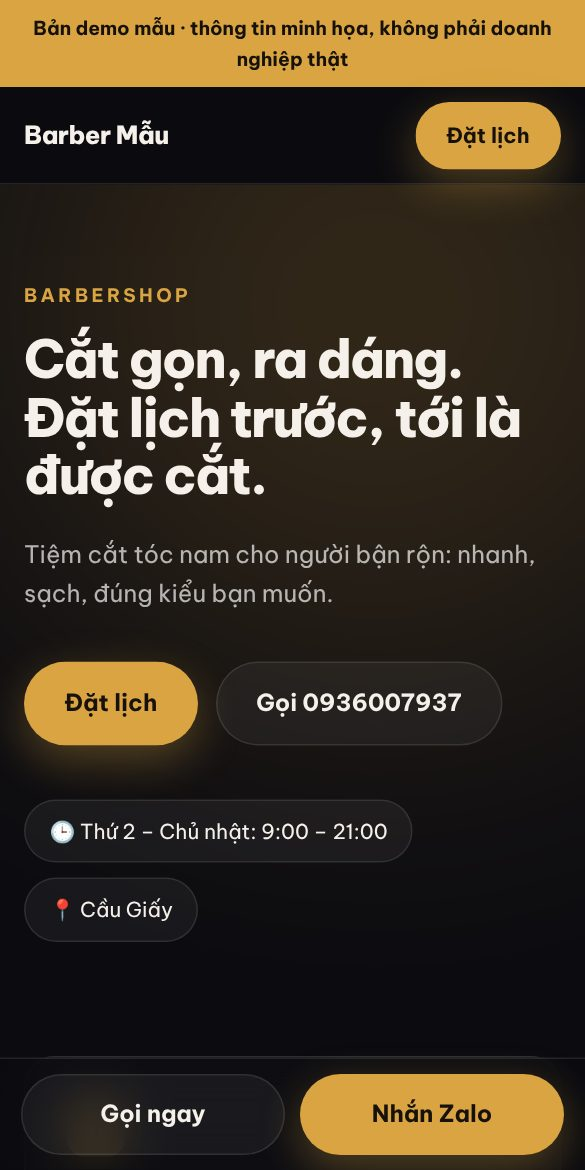
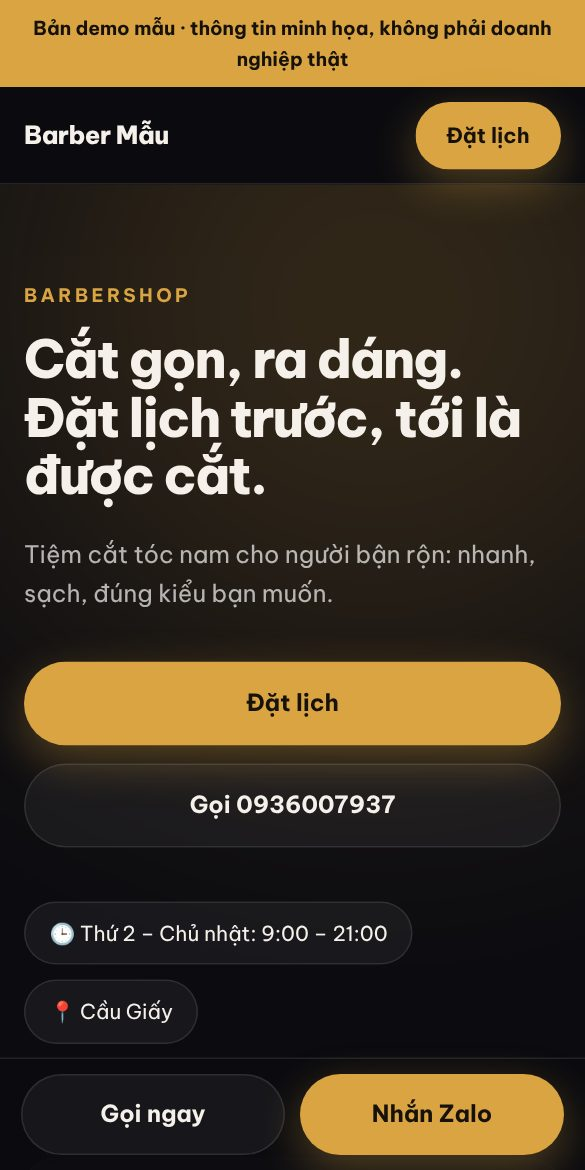
Improve web factory; add script for prospects with an old website
- build.py: omit empty price column, services_title override,
  full-width CTA buttons on phones
- refreshed sample sites and sales-page phone images
- outreach script 1b and prospecting criteria for outdated-site clinics
- .gitignore: keep real-prospect files (factory/*/kh-*) out of the public repo

Claude-Session: https://claude.ai/code/session_013LYtW8N3DngoDoRnXPa7Ac

diff --git a/factory/out/mau-barber/index.html b/factory/out/mau-barber/index.html
@@ -90,6 +90,7 @@ footer{padding:34px 0 40px;border-top:1px solid var(--line);color:var(--dim);fon
  .grid3,.two,.shots{grid-template-columns:1fr}
  .hero{padding:64px 0 56px}
  .hero.photo{padding:96px 0 72px}
+ .cta-row .btn{width:100%}
  .row{flex-direction:column;gap:6px}
  .dock{display:grid;grid-template-columns:1fr 1fr;gap:10px;position:fixed;left:0;right:0;bottom:0;z-index:50;padding:10px 14px calc(10px + env(safe-area-inset-bottom));background:var(--bar);backdrop-filter:blur(16px);-webkit-backdrop-filter:blur(16px);border-top:1px solid var(--line)}
  .dock .btn{padding:13px 10px}

diff --git a/factory/out/mau-ca-phe/index.html b/factory/out/mau-ca-phe/index.html
@@ -90,6 +90,7 @@ footer{padding:34px 0 40px;border-top:1px solid var(--line);color:var(--dim);fon
  .grid3,.two,.shots{grid-template-columns:1fr}
  .hero{padding:64px 0 56px}
  .hero.photo{padding:96px 0 72px}
+ .cta-row .btn{width:100%}
  .row{flex-direction:column;gap:6px}
  .dock{display:grid;grid-template-columns:1fr 1fr;gap:10px;position:fixed;left:0;right:0;bottom:0;z-index:50;padding:10px 14px calc(10px + env(safe-area-inset-bottom));background:var(--bar);backdrop-filter:blur(16px);-webkit-backdrop-filter:blur(16px);border-top:1px solid var(--line)}
  .dock .btn{padding:13px 10px}

diff --git a/factory/out/mau-nha-khoa/index.html b/factory/out/mau-nha-khoa/index.html
@@ -90,6 +90,7 @@ footer{padding:34px 0 40px;border-top:1px solid var(--line);color:var(--dim);fon
  .grid3,.two,.shots{grid-template-columns:1fr}
  .hero{padding:64px 0 56px}
  .hero.photo{padding:96px 0 72px}
+ .cta-row .btn{width:100%}
  .row{flex-direction:column;gap:6px}
  .dock{display:grid;grid-template-columns:1fr 1fr;gap:10px;position:fixed;left:0;right:0;bottom:0;z-index:50;padding:10px 14px calc(10px + env(safe-area-inset-bottom));background:var(--bar);backdrop-filter:blur(16px);-webkit-backdrop-filter:blur(16px);border-top:1px solid var(--line)}
  .dock .btn{padding:13px 10px}

diff --git a/factory/out/mau-trung-tam/index.html b/factory/out/mau-trung-tam/index.html
@@ -90,6 +90,7 @@ footer{padding:34px 0 40px;border-top:1px solid var(--line);color:var(--dim);fon
  .grid3,.two,.shots{grid-template-columns:1fr}
  .hero{padding:64px 0 56px}
  .hero.photo{padding:96px 0 72px}
+ .cta-row .btn{width:100%}
  .row{flex-direction:column;gap:6px}
  .dock{display:grid;grid-template-columns:1fr 1fr;gap:10px;position:fixed;left:0;right:0;bottom:0;z-index:50;padding:10px 14px calc(10px + env(safe-area-inset-bottom));background:var(--bar);backdrop-filter:blur(16px);-webkit-backdrop-filter:blur(16px);border-top:1px solid var(--line)}
  .dock .btn{padding:13px 10px}

diff --git a/factory/build.py b/factory/build.py
@@ -140,6 +140,7 @@ footer{padding:34px 0 40px;border-top:1px solid var(--line);color:var(--dim);fon
  .grid3,.two,.shots{grid-template-columns:1fr}
  .hero{padding:64px 0 56px}
  .hero.photo{padding:96px 0 72px}
+ .cta-row .btn{width:100%}
  .row{flex-direction:column;gap:6px}
  .dock{display:grid;grid-template-columns:1fr 1fr;gap:10px;position:fixed;left:0;right:0;bottom:0;z-index:50;padding:10px 14px calc(10px + env(safe-area-inset-bottom));background:var(--bar);backdrop-filter:blur(16px);-webkit-backdrop-filter:blur(16px);border-top:1px solid var(--line)}
  .dock .btn{padding:13px 10px}
@@ -263,7 +264,7 @@ def build_body(c, p):
     if c.get("ribbon"):
         parts.append(f'<div class="ribbon">{esc(c["ribbon"])}</div>')
 
-    nav = ['<a href="#dich-vu">' + esc(p["services_title"].split(" &")[0]) + "</a>", '<a href="#gioi-thieu">Giới thiệu</a>']
+    nav = ['<a href="#dich-vu">' + esc(c.get("services_title", p["services_title"]).split(" &")[0]) + "</a>", '<a href="#gioi-thieu">Giới thiệu</a>']
     if c.get("faq"):
         nav.append('<a href="#hoi-dap">Hỏi đáp</a>')
     nav.append('<a href="#lien-he">Liên hệ</a>')
@@ -304,12 +305,14 @@ def build_body(c, p):
     rows = "".join(
         f'<div class="row"><div><h3>{esc(s["name"])}</h3>'
         + (f'<p>{esc(s["desc"])}</p>' if s.get("desc") else "")
-        + f'</div><div class="price">{esc(s.get("price", ""))}</div></div>'
+        + "</div>"
+        + (f'<div class="price">{esc(s["price"])}</div>' if s.get("price") else "")
+        + "</div>"
         for s in c["services"]
     )
     parts.append(
         f'<section id="dich-vu"><div class="wrap"><div class="eyebrow">{category}</div>'
-        f'<h2>{esc(p["services_title"])}</h2><div class="svc">{rows}</div></div></section>'
+        f'<h2>{esc(c.get("services_title", p["services_title"]))}</h2><div class="svc">{rows}</div></div></section>'
     )
 
     hours = "".join(f"<dd>{esc(h)}</dd>" for h in c.get("hours", []))

diff --git a/internal/outreach-scripts.md b/internal/outreach-scripts.md
@@ -11,6 +11,19 @@ Thay `[…]` bằng chi tiết thật bạn thấy ở fanpage/Maps. Không có 
 > Mình làm website cho tiệm ở Hà Nội. Mình đã dựng thử một bản mang tên [tên tiệm] (ảnh đính kèm) để anh/chị xem, miễn phí, ưng mới tính tiếp.
 > Anh/chị xem qua giúp mình được không ạ?
 
+## 1b. Mở lời khi tiệm ĐÃ có web nhưng cũ (ví dụ phòng khám đông khách)
+
+Đừng chê web hiện tại của họ trong tin nhắn. Khen điều thật (lượng đánh giá), rồi đưa bản dựng thử.
+
+> Chào anh/chị, mình là Linh, làm website cho phòng khám và doanh nghiệp ở Hà Nội.
+> Mình thấy [tên tiệm] có lượng đánh giá rất tốt trên Google Maps ([số thật bạn vừa kiểm tra] lượt). Mình nghĩ một trang web đặt lịch gọn, mở mượt trên điện thoại sẽ giúp khách mới dễ đặt lịch hơn.
+> Mình đã dựng thử một bản mang tên [tên tiệm] (ảnh đính kèm), miễn phí để anh/chị tham khảo. Phần dịch vụ trong ảnh là mẫu, nếu anh/chị ưng mình cập nhật đúng thông tin thật của phòng khám.
+> Anh/chị xem qua giúp mình được không ạ?
+
+Trước khi gửi: tự mở Google Maps xem lại số đánh giá, rồi điền số thật. Không điền số bạn không kiểm tra được.
+
+Khi họ quan tâm, hỏi: *ai đang quản lý tên miền và nơi lưu trữ web hiện tại?* Nếu web cũ đang do một công ty khác giữ thì việc chuyển sang web mới cần phối hợp thêm, báo khách rõ trước khi chốt.
+
 ## 2. Nhắn nhắc lần 1 (sau 2 ngày im)
 
 > Dạ mình nhắn lại một chút thôi ạ. Bản dựng thử cho [tên tiệm] mình vẫn giữ, anh/chị xem qua điện thoại được không ạ? Không ưng thì thôi, không sao ạ.

diff --git a/internal/PLAN.md b/internal/PLAN.md
@@ -56,7 +56,7 @@ Nếu phễu tệ gấp đôi, cần ~340 tin. Vì vậy có điểm kiểm tra 
 ## 4. Tìm khách ở Hà Nội (bạn làm, ~20 phút/ngày)
 
 1. Mở Google Maps, gõ: `[loại hình] [quận]`, ví dụ `nha khoa Cầu Giấy`, `tiệm tóc nam Đống Đa`, `trung tâm tiếng Anh Thanh Xuân`.
-2. Chọn tiệm **chưa có nút "Trang web"** trên Maps, có từ ~20 đánh giá trở lên (đang hoạt động thật), còn mở cửa.
+2. Chọn tiệm có từ ~20 đánh giá trở lên (đang hoạt động thật), còn mở cửa, và thuộc một trong hai nhóm: **chưa có web** (không có nút "Trang web" trên Maps), hoặc **có web nhưng cũ/khó xem trên điện thoại** mà đánh giá nhiều (đông khách thật, có lý do để nâng cấp). Nhóm thứ hai dùng kịch bản 1b.
 3. Ưu tiên gói cao: nha khoa, thẩm mỹ viện/spa lớn, trung tâm đào tạo, nội thất. Gói thấp: tiệm tóc, nail, quán nhỏ.
 4. Quận gợi ý: Cầu Giấy, Đống Đa, Thanh Xuân, Hai Bà Trưng, Hoàn Kiếm, Nam Từ Liêm, Tây Hồ, Long Biên, Hà Đông.
 5. Với mỗi tiệm, dán cho mình: tên, loại hình, địa chỉ, số điện thoại, link Maps/fanpage, và 1 điều bạn thấy hay ở tiệm (để tin nhắn không bị chung chung).
